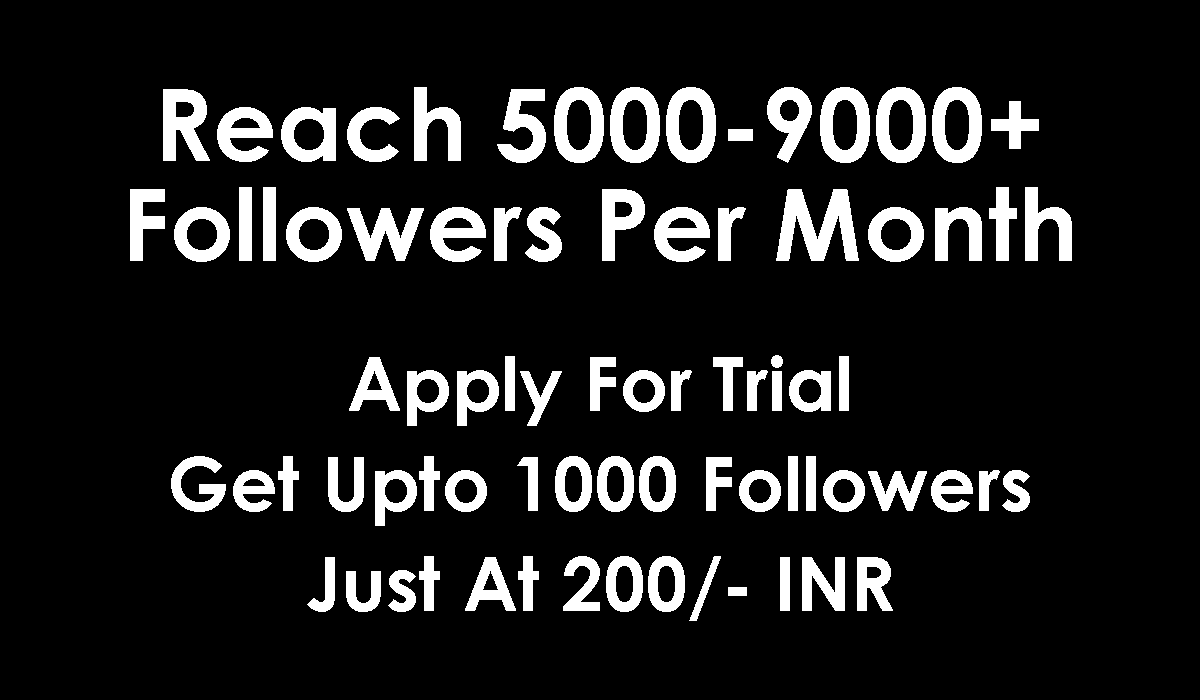
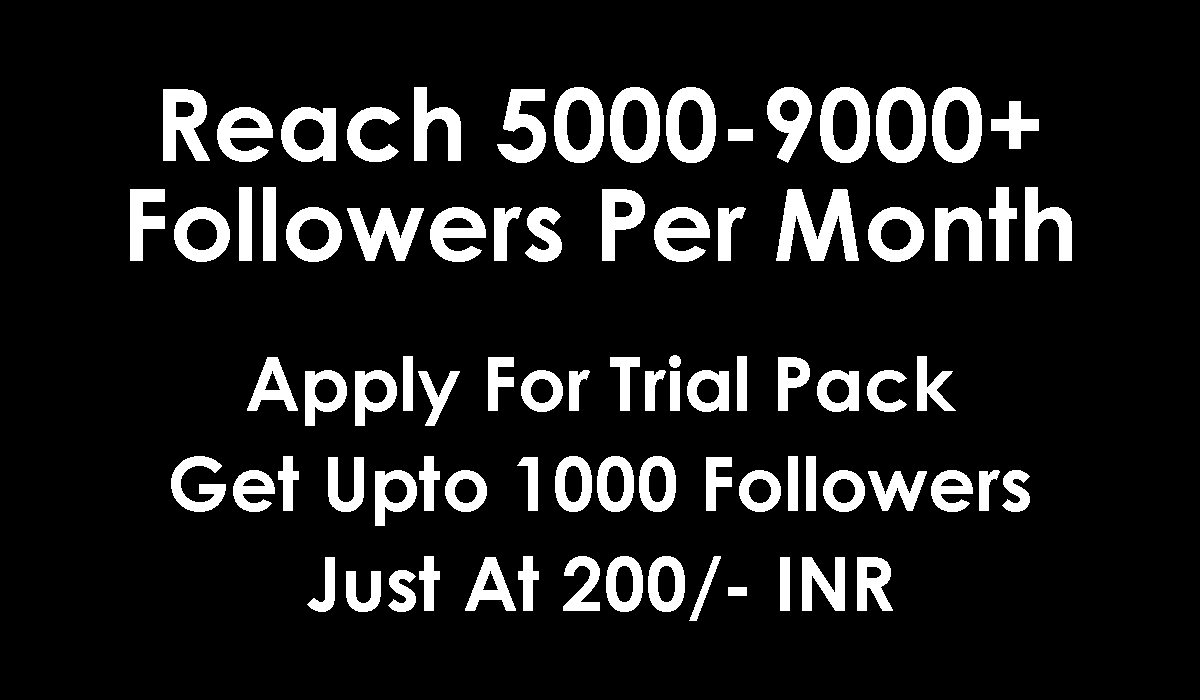
Trial v1.0.0

Changed region(s): [[0.185, 0.51, 0.8017, 0.63]]

diff --git a/trial.html b/trial.html
@@ -15,8 +15,8 @@
         
 		<meta property="og:type" content="profile" />
         <meta property="og:image" content="img/trialicon.png" />
-        <meta property="og:title" content="Apply For Trial Get Upto 1000 Followers Just At 200/- INR" />
-        <meta property="og:description" content="Black Aqua India A Social Media Marketing Solution Company, Nashik />
+        <meta property="og:title" content="Apply For Trial Pack Get Upto 1000 Followers Just At 200/- INR" />
+        <meta property="og:description" content="Black Aqua India A Social Media Marketing Solution Company - We Provide Worldwide Marketing Solution For Facebook, Instagram, Twitter, Youtube, Whatsapp, Google and Many More.../>
         
 		
 		<link href="../css/theme/jqm/jqm.css" rel="stylesheet" />
